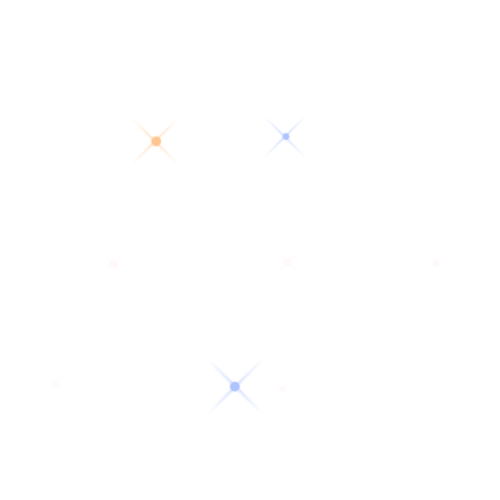
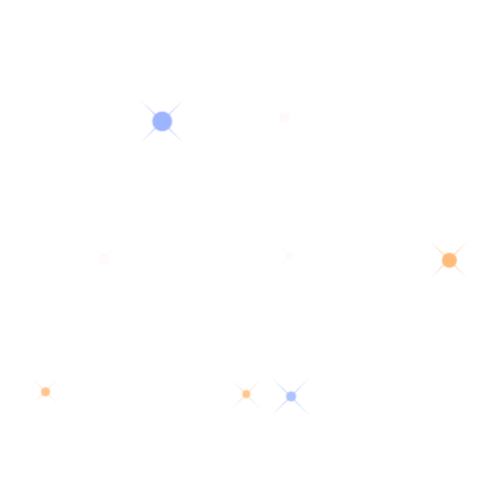
Updated about me image and changed colors of constellation lines to more closly match blurred blue.

diff --git a/stylesheet.css b/stylesheet.css
@@ -64,7 +64,7 @@ a:hover, a:visited, a:link, a:active {
   width: 100%;
   font-size: 1.5em;
   text-decoration: none;
-  color: #475da1;
+  color: #687497;
   font-family: 'Noto Serif', serif;
   text-align: center;
   opacity: .5;
